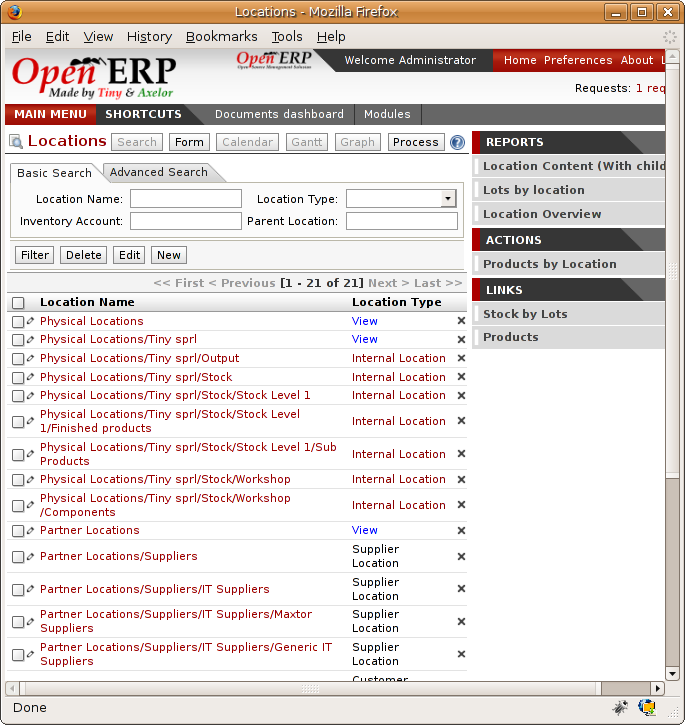
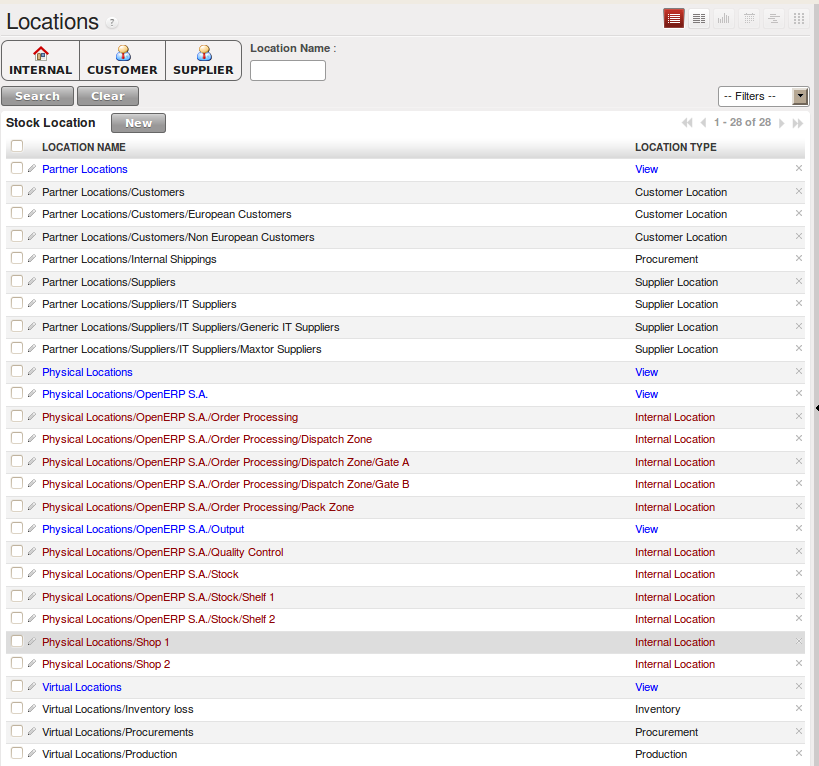
[IMP]: Warehouse: Manage your Warehouse and Get your Manufacturing done --> Your Warehouse --> Understanding Double-Entry Stock Management AND From Supplier to Customer.

diff --git a/5/5_14_Stock/5_14_Stock_illustration.rst b/5/5_14_Stock/5_14_Stock_illustration.rst
@@ -30,8 +30,8 @@ receipt of the products:
    ================================================== =============
    Location                                           Products
    ================================================== =============
-   Partner Locations > Suppliers > Suppliers          -30 bicycles
-   Physical Locations > Tiny SPRL > Stock             +30 bicycles
+   Partner Locations > Suppliers                      -30 bicycles
+   Physical Locations > OpenERP S.A. > Stock          +30 bicycles
    ================================================== =============
 
 If you deliver 2 bicycles to a European customer you will get the following transactions for the
@@ -42,29 +42,29 @@ delivery:
    ================================================== =============
    Location                                           Products
    ================================================== =============
-   Physical Locations > Tiny SPRL > Stock             -2 bicycles
+   Physical Locations > OpenERP S.A. > Stock          -2 bicycles
    Partner Locations > Customers > European Customers +2 bicycles
    ================================================== =============
 
-When the two operations are complete you'll then get the following stock in each location:
+When the two operations are complete you will then get the following stock in each location:
 
 .. table:: Resulting stock situation
 
    ================================================== =============
    Location                                           Products
    ================================================== =============
-   Partner Locations > Suppliers > Suppliers          -30 bicycles
-   Physical Locations > Tiny SPRL > Stock             +28 bicycles
+   Partner Locations > Suppliers                      -30 bicycles
+   Physical Locations > OpenERP S.A. > Stock          +28 bicycles
    Partner Locations > Customers > European Customers +2 bicycles
    ================================================== =============
 
 So you can see that the sum of the stocks of a product in all the locations in Open ERP is always
-zero. In accounting you'd say that the sum of the debits is equal to the sum of the credits.
+zero. In accounting you would say that the sum of the debits is equal to the sum of the credits.
 
-Partner locations (customers and suppliers) aren't located under your company in the hierarchical
+Partner locations (customers and suppliers) are not located under your company in the hierarchical
 structure, so their contents are not considered as part of your own stock. So if you look just at
 the physical locations inside your own company those two bicycles are no longer in your company.
-They're not in your own physical stock but it's still very useful to see them in your customer's
+They are not in your own physical stock but it is still very useful to see them in your customer's
 stock because that helps when you carry out detailed stock management analysis.
 
 .. note:: Accounts
@@ -75,18 +75,18 @@ stock because that helps when you carry out detailed stock management analysis.
      If you forget two items of stock this error will automatically be reflected in the
      counterpart's location.
 
-You can make a comparison with accounting, where you'll easily find an error because you can look
-for an anomaly in an account or in the counterparts: if there's not enough in a bank account then that's
+You can make a comparison with accounting, where you will easily find an error because you can look
+for an anomaly in an account or in the counterparts: if there is not enough in a bank account then that iss
 probably because someone's forgotten to enter a customer's invoice payment. You always know that the
 sum of debits must equal the sum of the credits in both accounting and Open ERP's stock management.
 
 In accounting, all documents lead to accounting entries that form the basis of management
 accounting. If you create invoices or code in statements of account, for example, the results of the
-operations are accounting entries on accounts. And it's the same for stock management in Open ERP.
+operations are accounting entries on accounts. And it is the same for stock management in Open ERP.
 All stock operations are carried out as simple stock moves. Whether you pack items, or manufacture
 them, or carry out a stock inventory operation, stock moves are carried out every time.
 
-You've seen a fairly simple example of goods receipt and product delivery, but some operations are
+You have seen a fairly simple example of goods receipt and product delivery, but some operations are
 less obvious – a stock inventory operation, for example. An inventory operation is carried out
 when you compare the stock shown in software with real stock numbers counted in the stores.
 
@@ -94,8 +94,8 @@ when you compare the stock shown in software with real stock numbers counted in 
    single: stock; inventory operation
    single: stock; stock check
 
-In Open ERP, with its double-entry stock management, you'd use stock moves for this inventory
-operation. That helps you manage your stock traceability. If there are 26 Bicycles in real stock but
+In Open ERP, with its double-entry stock management, you would use stock moves for this inventory
+operation. That helps you manage your stock traceability. If there are 26 bicycles in real stock but
 Open ERP shows 28 in the system. You then have to reduce the number in Open ERP to 26. This
 reduction of 2 units is considered as a loss or destruction of products and the correction is
 carried out as in the following operation:
@@ -105,7 +105,7 @@ carried out as in the following operation:
    ================================================== =============
    Location                                           Products
    ================================================== =============
-   Physical Locations > Tiny SPRL > Stock             -2 bicycles
+   Physical Locations > OpenERP S.A. > Stock          -2 bicycles
    Virtual Locations > Inventory Loss                 +2 bicycles
    ================================================== =============
 
@@ -116,8 +116,8 @@ The product stock under consideration then becomes:
    ================================================== =============
    Location                                           Products
    ================================================== =============
-   Partner Locations > Suppliers > Suppliers          -30 bicycles
-   Physical Locations > Tiny SPRL > Stock             +26 bicycles
+   Partner Locations > Suppliers                      -30 bicycles
+   Physical Locations > OpenERP S.A. > Stock          +26 bicycles
    Partner Locations > Customers > European Customers +2 bicycles
    Virtual Locations > Inventory Loss                 +2 bicycles
    ================================================== =============
@@ -133,24 +133,24 @@ moving products out of and into physical stock. The stock operations for this ar
 
 .. table:: Stock situation resulting from manufacture
 
-   ====================================== ========== ================================
-   Location                               Products   Step
-   ====================================== ========== ================================
-   Virtual Locations > Default Production +2 Wheels  Consumption of raw materials
-   Physical Locations > Tiny SPRL > Stock -2 Wheels  Consumption of raw materials
-   Virtual Locations > Default Production +1 Frame   Consumption of raw materials
-   Physical Locations > Tiny SPRL > Stock -1 Frame   Consumption of raw materials
-   Virtual Locations > Default Production -1 Bicycle Manufacture of finished products
-   Physical Locations > Tiny SPRL > Stock +1 Bicycle Manufacture of finished products
-   ====================================== ========== ================================
+   ========================================= =========== ================================
+   Location                                  Products    Step
+   ========================================= =========== ================================
+   Virtual Locations > Production            +2 Wheels   Consumption of raw materials
+   Physical Locations > OpenERP S.A. > Stock -2 Wheels   Consumption of raw materials
+   Virtual Locations > Production            +1 Frame    Consumption of raw materials
+   Physical Locations > OpenERP S.A. > Stock -1 Frame    Consumption of raw materials
+   Virtual Locations > Production            -1 Bicycle  Manufacture of finished products
+   Physical Locations > OpenERP S.A. > Stock +1 Bicycle  Manufacture of finished products
+   ========================================= =========== ================================
 
-So you've now got the outcome you need from the consumption of raw materials and the manufacture of
+So you have now got the outcome you need from the consumption of raw materials and the manufacture of
 finished products.
 
 .. note::  Assessing created value
 
     You might already have noticed a useful effect of this approach:
-    if you do a stock valuation in the ``Default Production`` location you get
+    if you do a stock valuation in the ``Virtual Locations > Production`` location you get
     a statement of value created by your company (as a negative amount).
     Stock valuation in any given location is calculated by multiplying quantities of products in
     stock by their cost.

diff --git a/5/5_14_Stock/5_14_Stock_wf.rst b/5/5_14_Stock/5_14_Stock_wf.rst
@@ -1,17 +1,17 @@
 From Supplier to Customer
 =========================
 
-Now you'll follow a practical example by adapting stock management operations. In order you'll see:
+Now you will follow a practical example by adapting stock management operations. In order you will see:
 
-* defining a new product,
+* Defining a new product
 
-* initial setting of inventory,
+* Initial setting of inventory
 
-* receiving products from a supplier,
+* Receiving products from a supplier
 
-* delivering to a customer,
+* Delivering to a customer
 
-* analysis of the state of stock.
+* Analysis of the state of stock
 
 Defining a New Product
 -----------------------
@@ -29,7 +29,7 @@ To start, define the following product:
    Supply Method        Buy
    ==================== ======================
 
-Use the menu :menuselection:`Products --> Products`, then click :guilabel:`New` to define a new
+Use the menu :menuselection:`Warehouse --> Products --> Products`, then click :guilabel:`New` to define a new
 product.
 
 .. figure:: images/stock_product.png
@@ -38,13 +38,13 @@ product.
 
    *Definition of a new product*
 
-Three fields are important for stock management when you're configuring a new product:
+Three fields are important for stock management when you are configuring a new product:
 
-* :guilabel:`Product Type`,
+* :guilabel:`Product Type`
 
-* :guilabel:`Procure Method`,
+* :guilabel:`Procurement Method`
 
-* :guilabel:`Supply Method`.
+* :guilabel:`Supply Method`
 
 Product Types
 --------------
@@ -52,15 +52,15 @@ Product Types
 The product type indicates if the product is handled in stock management and if Open ERP manages its
 procurement. The three distinct product types are:
 
-* :guilabel:`Stockable Product` : this product is used in stock management and its replenishment is
+* :guilabel:`Stockable Product` : This product is used in stock management and its replenishment is
   more or less automated as defined by the rules established in the system. Examples, a bicycle, a
   computer or a central heating system.
 
-* :guilabel:`Consumable` : handled in stock management, you can receive it, deliver it and make it.
-  But its stock level isn't managed by the system. Open ERP assumes that you've got sufficient levels
-  in stock at all time, so it doesn't restock it automatically. Example, nails.
+* :guilabel:`Consumable` : This product is handled in stock management, you can receive it, deliver it and make it.
+  But its stock level is not managed by the system. Open ERP assumes that you have got sufficient levels
+  in stock at all time, so it does not restock it automatically. Example, nails.
 
-* :guilabel:`Service` : doesn't appear in the various stock operations. Example, a consulting
+* :guilabel:`Service` : It does not appear in the various stock operations. Example, a consulting
   service.
 
 Procure Methods – Make to Stock and Make to Order
@@ -72,7 +72,7 @@ The procure method determines how the product will be replenished:
   set quantity of each product when its stock is too low. Example, a classic distributor.
 
 * :guilabel:`Make to Order` : when a customer order is confirmed, you then procure or manufacture
-  the products for this order. A customer order 'Make to Order' won't modify stock in the medium term
+  the products for this order. A customer order 'Make to Order' will not modify stock in the medium term
   because you restock with the exact amount that was ordered. Example, computers from a large supplier
   assembled on demand.
 
@@ -114,7 +114,7 @@ Supply Methods
 
 Open ERP supports two supply methods:
 
-* Produce: when the product or service is supplied from internal resources,
+* Produce: when the product or service is supplied from internal resources.
 
 * Buy: when the product is bought from a supplier.
 
@@ -196,9 +196,9 @@ convert from one unit of measure to another as long as they are in the same cate
    ========= ============ ======
 
 Depending on the table above you have 1Kg = 1000g = 0.001 Tonnes. A product in the ``Weight``
-category could be expressed in Kg, Tonnes or Grammes. You can't express them in hours or pieces.
+category could be expressed in Kg, Tonnes or Grammes. You can not express them in hours or pieces.
 
-Use the menu :menuselection:`Products --> Configuration --> Units of Measure --> Units of Measure`
+Use the menu :menuselection:`Sales --> Configuration --> Products -->  Units of Measure --> Units of Measure --> Units of Measure`
 to define a new unit of measure.
 
 In the definition of a Unit of Measure, you have a :guilabel:`Rounding precision` factor which shows how
@@ -208,7 +208,7 @@ gives rounding to one hundredth.
 .. note::  Secondary Units
 
    Open ERP supports double units of measure.
-   When you use this, the whole of the stock management system is encoded in two units that don't
+   When you use this, the whole of the stock management system is encoded in two units that do not
    have a real link between them.
 
    This is very useful in the agro-food industry, for example: you sell ham by the piece but invoice

diff --git a/5/5_14_Stock/index.rst b/5/5_14_Stock/index.rst
@@ -12,7 +12,7 @@ Your Warehouse
  *Open ERP's stock management is at once very simple, flexible and complete.
  It's based on the concept of double entry that revolutionized accounting.
  The system can be described by Lavoisier's maxim “nothing lost, everything changed” or, better,
- “everything moved”. In Open ERP you don't talk of disappearance, consumption or loss of products:
+ “everything moved”. In Open ERP you do not talk of disappearance, consumption or loss of products:
  instead you speak only of stock moves from one place to another.*
 
 Just as in accounting, the Open ERP system manages counterparts to each of its main operations such as
